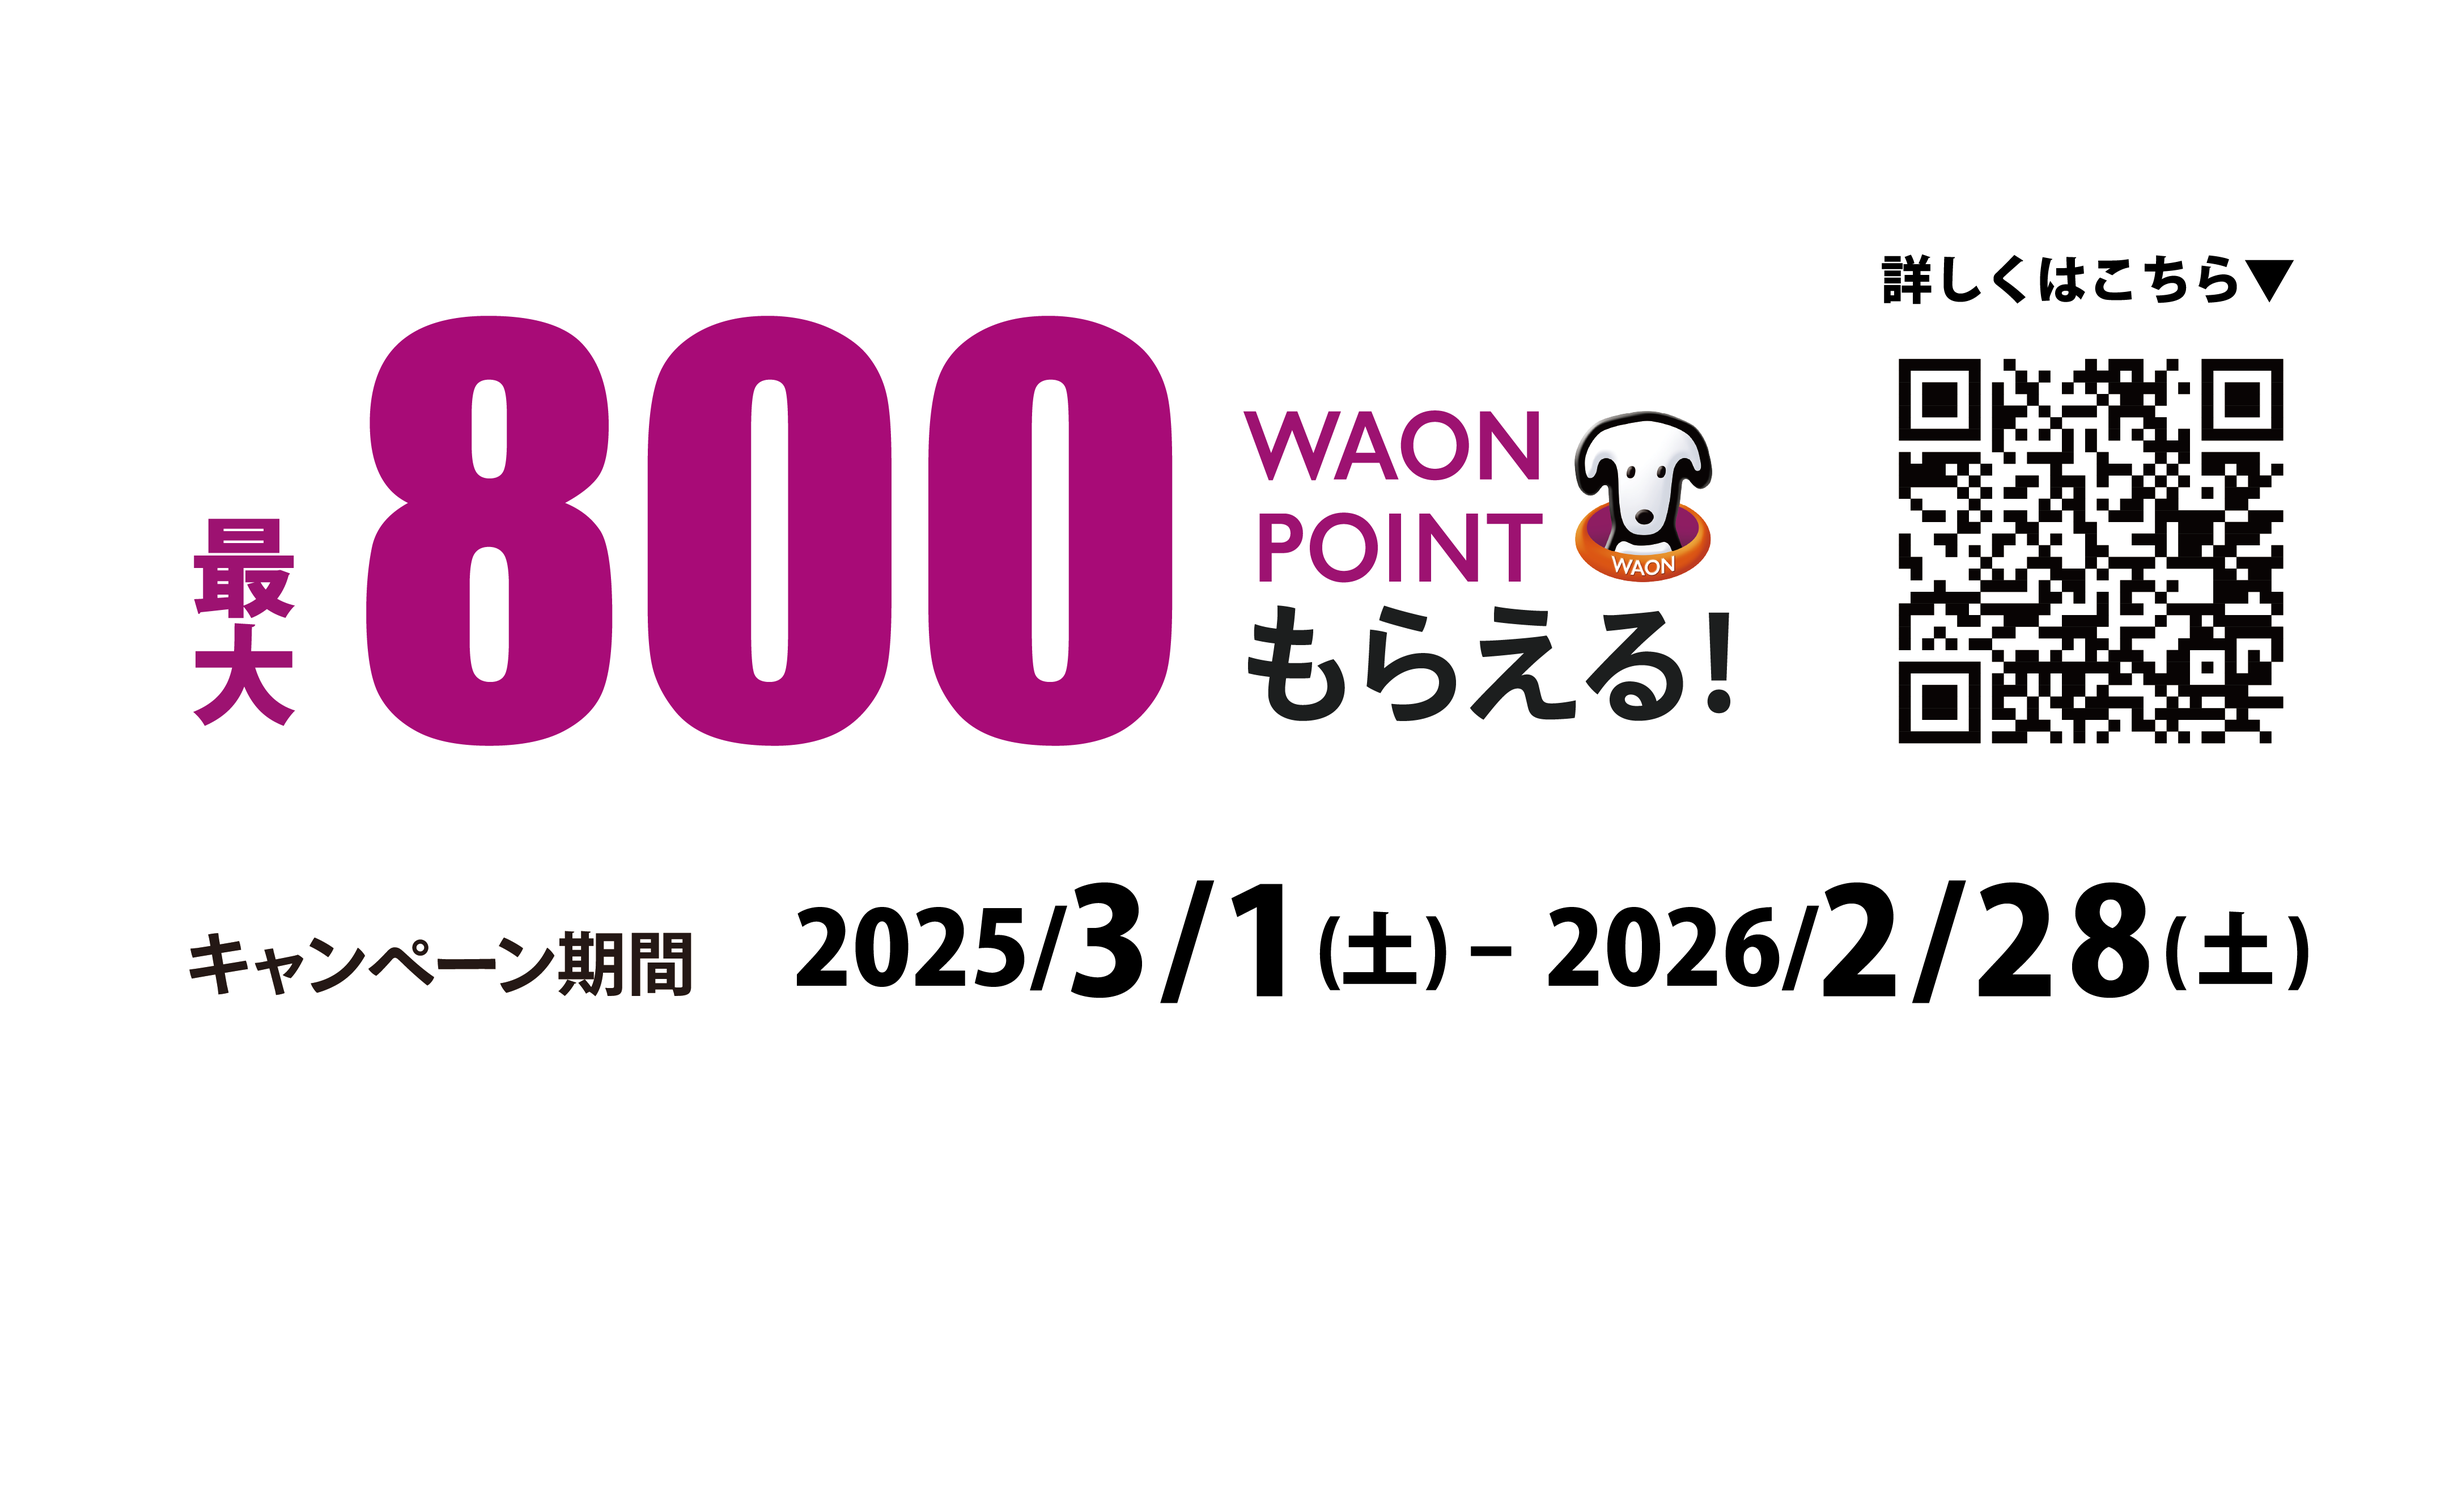
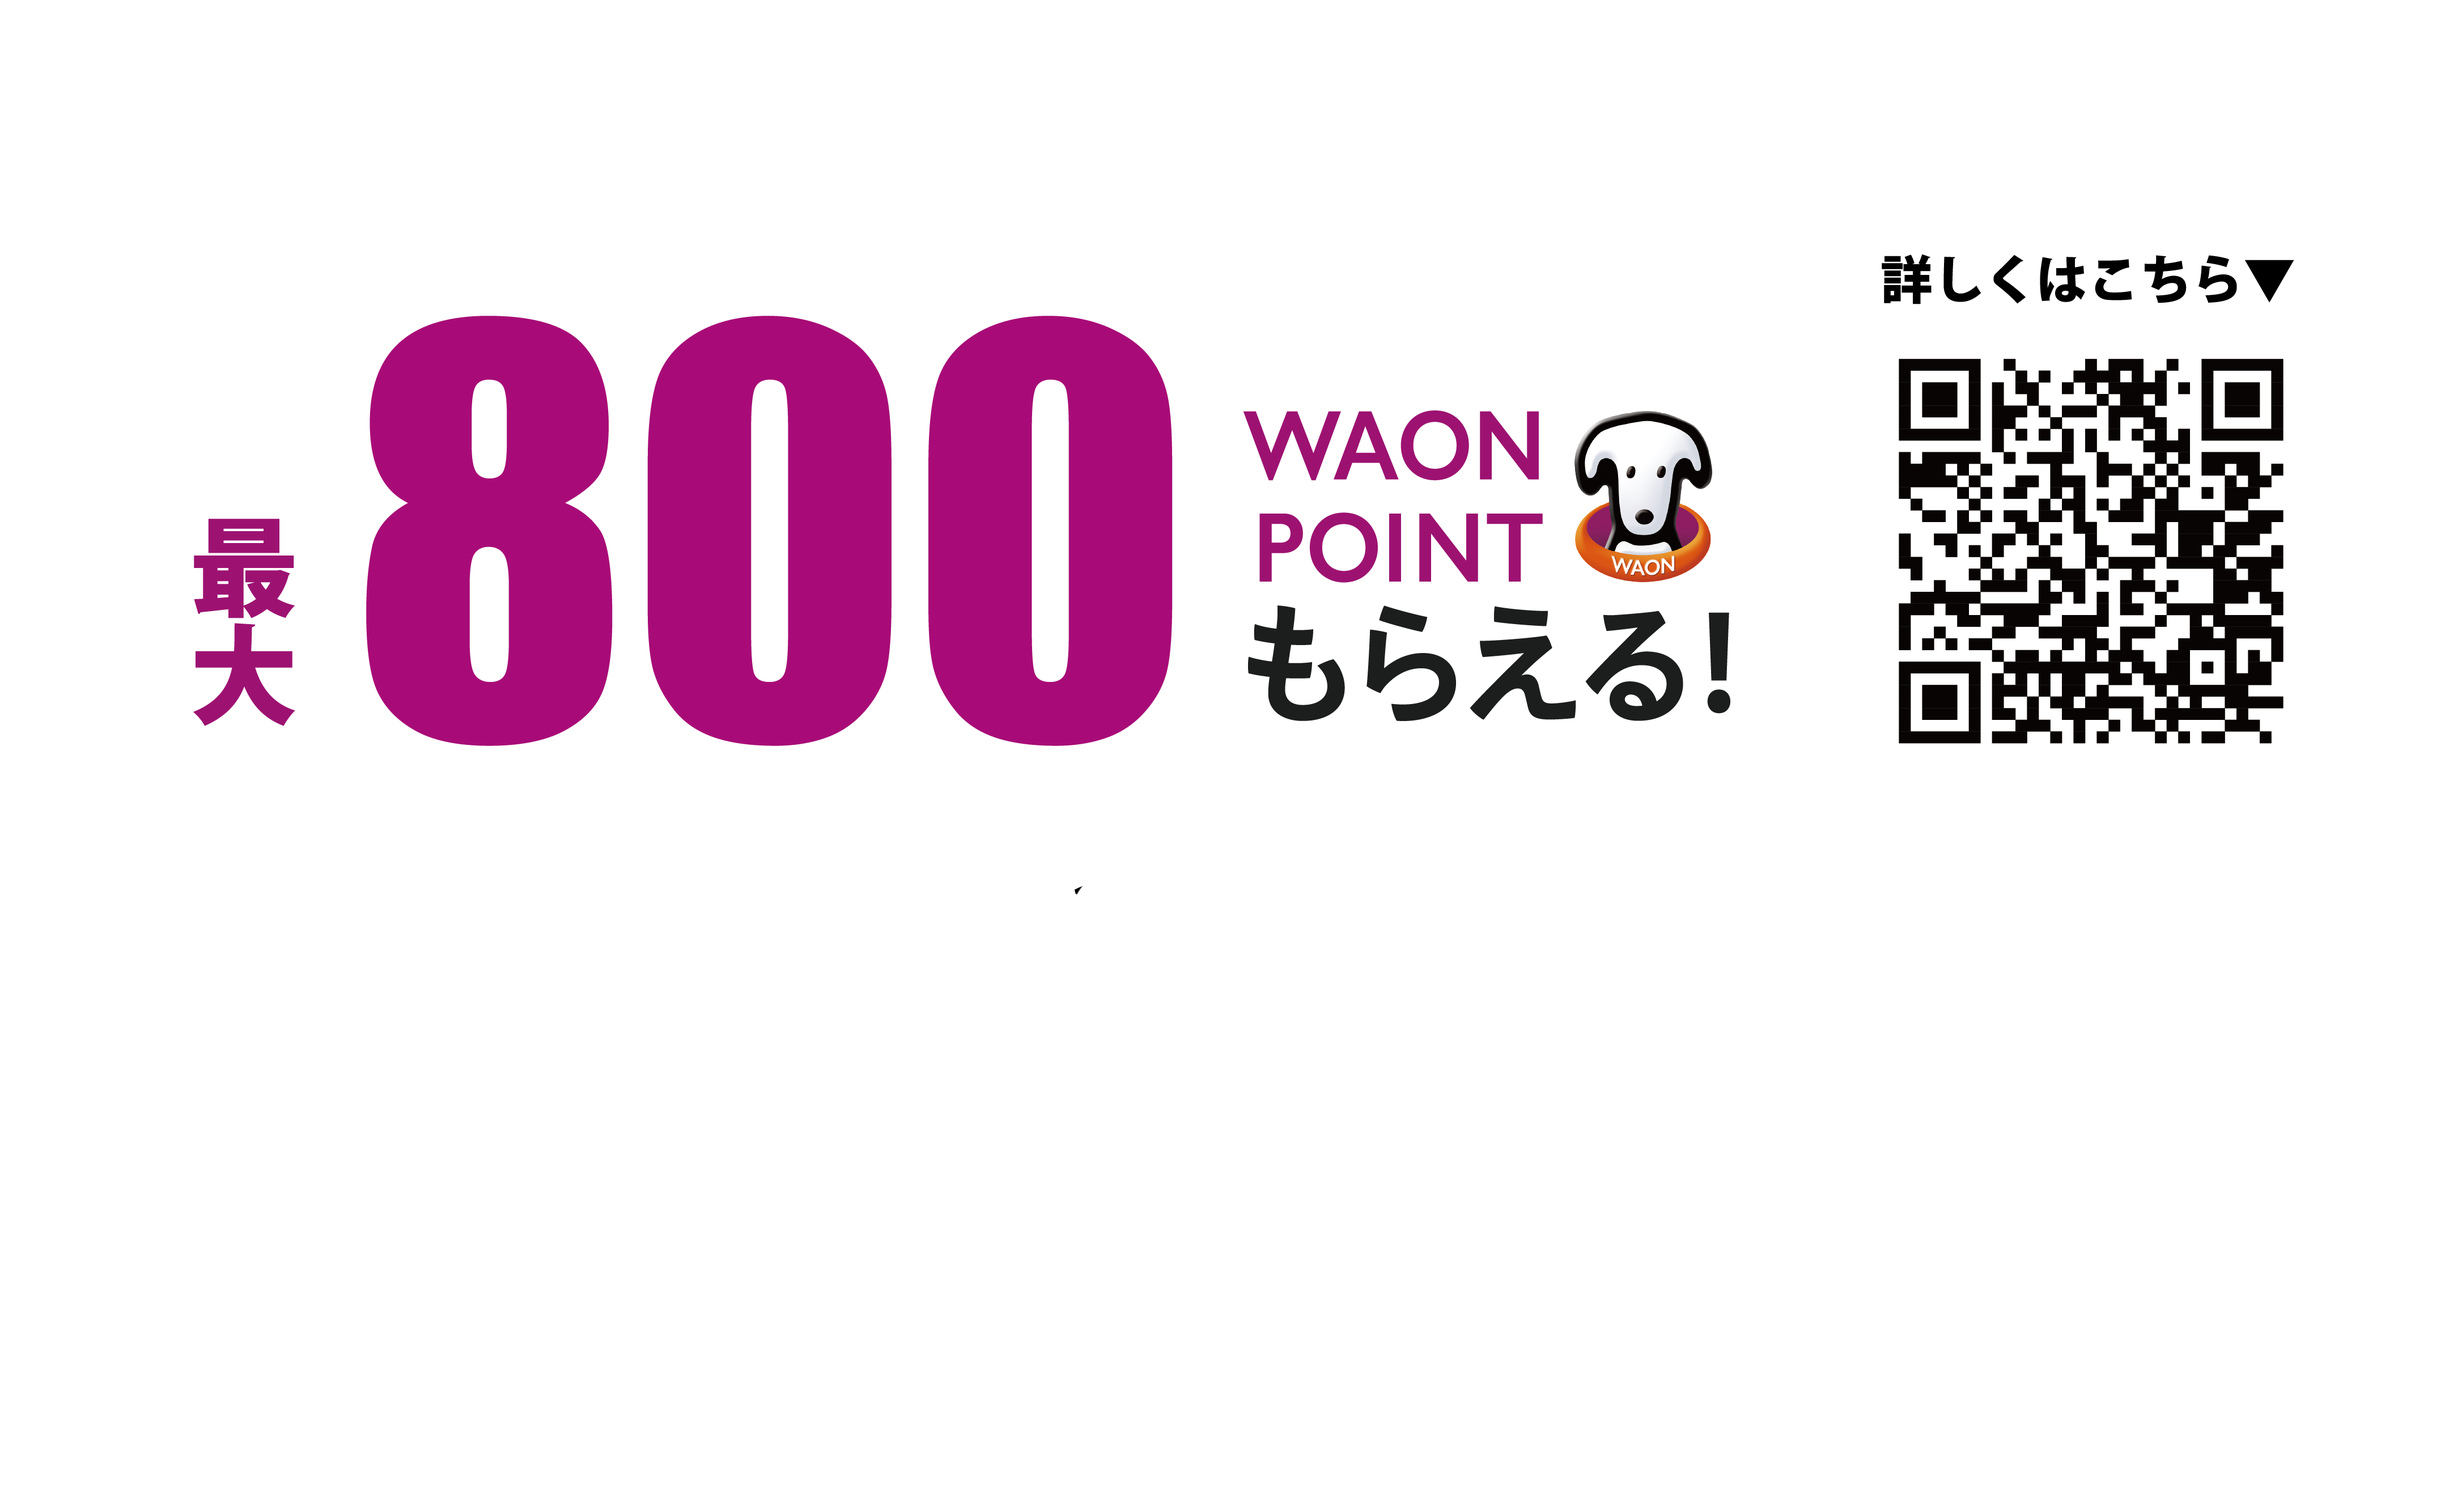
4月リニューアル、お友だち画像修正

Changed region(s): [[0.3124, 0.5935, 0.9685, 0.6872], [0.0625, 0.6248, 0.2812, 0.6872]]

diff --git a/signage_202604renewal.html b/signage_202604renewal.html
@@ -1,0 +1,215 @@
+<!DOCTYPE html>
+<html lang="ja">
+
+<head>
+  <meta charset="UTF-8">
+  <title>AEON SMART TECHNOLOGY</title>
+  <meta name="robots" content="noindex" />
+  <link rel='dns-prefetch' href='//ajax.googleapis.com' />
+  <link rel='dns-prefetch' href='//www.google.com' />
+
+  <!-- Google Tag Manager -->
+  <script>(function (w, d, s, l, i) {
+      w[l] = w[l] || []; w[l].push({
+        'gtm.start':
+          new Date().getTime(), event: 'gtm.js'
+      }); var f = d.getElementsByTagName(s)[0],
+        j = d.createElement(s), dl = l != 'dataLayer' ? '&l=' + l : ''; j.async = true; j.src =
+          'https://www.googletagmanager.com/gtm.js?id=' + i + dl; f.parentNode.insertBefore(j, f);
+    })(window, document, 'script', 'dataLayer', 'GTM-NHT5RG37');</script>
+  <!-- End Google Tag Manager -->
+
+
+
+
+  <script src='https://ajax.googleapis.com/ajax/libs/jquery/3.4.1/jquery.min.js?ver=3.4.1' id='jquery-js'></script>
+
+
+
+
+  <!-- font -->
+  <link rel="preconnect" href="https://fonts.googleapis.com">
+  <link rel="preconnect" href="https://fonts.gstatic.com" crossorigin>
+  <link
+    href="https://fonts.googleapis.com/css2?family=Montserrat:wght@500;600&family=Noto+Sans+JP:wght@300;400;500;600&display=swap"
+    rel="stylesheet">
+  <!-- /font -->
+  <script src="https://ajax.googleapis.com/ajax/libs/jquery/1.12.4/jquery.min.js"></script>
+  <meta http-equiv="X-UA-Compatible" content="IE=edge">
+  <meta name="viewport" content="width=device-width, initial-scale=1, viewport-fit=cover" />
+  <meta name="description" content="＃">
+  <meta property="og:site_name" content="＃" />
+  <meta property="og:type" content="article" />
+  <meta property="og:title" content="＃" />
+  <meta property="og:description" content="＃" />
+  <meta property="og:url" content="＃" />
+  <meta property="og:image" content="＃" />
+
+  <!-- <link rel='stylesheet' href='test/test1.css' type='text/css' media='all' /> --><!--  23/06/19ローカル環境テスト用 -->
+  <link rel='stylesheet' href='css/test2.css' type='text/css' media='all' /><!--  23/07/10ローカル環境テスト用 -->
+  <link rel="stylesheet" type="text/css" href="https://cdnjs.cloudflare.com/ajax/libs/slick-carousel/1.9.0/slick.css">
+  <link rel="stylesheet" type="text/css"
+    href="https://cdnjs.cloudflare.com/ajax/libs/slick-carousel/1.9.0/slick-theme.css">
+  <script type="text/javascript"
+    src="https://cdnjs.cloudflare.com/ajax/libs/slick-carousel/1.9.0/slick.min.js"></script>
+  <!-- 23/07 -->
+  <link rel='stylesheet' href='css/reset2024.css' type='text/css' media='all' /><!--  23/07/10ローカル環境テスト用 -->
+  <link rel='stylesheet' href='css/test2.css' type='text/css' media='all' /><!--  23/07/10ローカル環境テスト用 -->
+  <link href="https://use.fontawesome.com/releases/v6.2.0/css/all.css" rel="stylesheet">
+
+  <script src="https://cdn.jsdelivr.net/npm/vue@2.6.14"></script><!-- Vue -->
+  <!-- <script src="https://unpkg.com/vue@3/dist/vue.global.js"></script> --><!-- Vue -->
+
+  <link rel="stylesheet" href="https://unpkg.com/swiper@7/swiper-bundle.min.css" />
+
+  <script src="https://unpkg.com/swiper@7/swiper-bundle.min.js"></script>
+
+  <!-- <script>
+    document.addEventListener('DOMContentLoaded', function() {
+      var now = new Date();
+      var redirectDate = new Date(2024, 8, 11); // 2024年9月11日（月は0から始まるため、7は8月を表します）
+
+      if (now >= redirectDate) {
+        window.location.href = 'signage03.html';
+      }
+    });
+  </script> -->
+
+</head>
+
+<body id="signage" class="under">
+  <!-- Google Tag Manager (noscript) -->
+  <noscript><iframe src="https://www.googletagmanager.com/ns.html?id=GTM-NHT5RG37" height="0" width="0"
+      style="display:none;visibility:hidden"></iframe></noscript>
+  <!-- End Google Tag Manager (noscript) -->
+
+  <!-- <header>
+    <a href="index.html">
+      <h3 class="icon"><i class="fa-solid fa-caret-left"></i></h3>
+    </a>
+    <h1>How to</h1>
+  </header>
+
+  <div id="header-menu">
+    <ul>
+      <li><a href="map_simple.html"><img src="img/top/btn_MAP.png"></a></li>
+    </ul>
+  </div> -->
+
+
+  <main>
+
+    <!-- サイネージ用画像セクション ============================================================= -->
+    <section>
+
+
+      <div class="video_wrapper">
+
+      <img src="img/info/202604_renewal.jpg" alt="2026年4月リニューアル" id="signageImage"> <!-- 4月15日まで-->
+
+    </div>
+
+    </section>
+
+    <!-- <script>
+      document.addEventListener('DOMContentLoaded', function () {
+        var now = new Date();
+
+        var targetDate2 = new Date(2025, (2 - 1), 10, 12, 0, 0);  // 日本標準時の2025年2月10日12:00 画像切り替わり
+
+        
+        var task2Executed = false; // 画像の書き換え実行のフラグ
+
+        
+        function executeTask2() {
+          var signageImage = document.getElementById("signageImage");
+          signageImage.src = "img/info/20250212_02.png"; // 新しい画像ファイルのパスを指定
+          task2Executed = true; // タスク2が実行されたことを記録
+        }
+
+        function checkTime() {
+          now = new Date();
+
+          console.log("現在の時間 (now): " + now);
+          console.log("イベント開始日時 (targetDate2): " + targetDate2);
+
+          
+
+          if (now >= targetDate2 && !task2Executed) {
+            console.log("指定日2を過ぎているため、画像の書き換えを実行します。");
+            executeTask2();
+          }
+        }
+
+        // 初回チェック
+        checkTime();
+      });
+    </script> -->
+
+    
+    <!-- サイネージ用画像セクション ============================================================= -->
+
+
+    <style>
+     div,
+      img,
+      video {
+        width: 100%;
+        height: auto;
+        max-height: 100%;
+      }
+      section{
+        width: 100%;
+        height: 100vh;
+        display: flex;
+        align-items: center;
+      }
+
+      .video_wrapper {
+        position: relative;
+      }
+      video{
+        margin:  0 auto;
+      }
+    </style>
+  </main>
+
+
+  <!-- <footer>
+    <h2>AEON Smart Technology Co., Ltd.</h2>
+  </footer> -->
+
+
+
+
+
+
+
+  <script src="https://cdnjs.cloudflare.com/ajax/libs/jquery/3.5.1/jquery.min.js"></script>
+
+  <script type="text/javascript" src="https://code.jquery.com/jquery-1.11.0.min.js"></script>
+  <script type="text/javascript"
+    src="https://cdnjs.cloudflare.com/ajax/libs/slick-carousel/1.9.0/slick.min.js"></script>
+  <script src="https://cdnjs.cloudflare.com/ajax/libs/gsap/3.12.2/gsap.min.js"></script>
+  <script src="https://cdnjs.cloudflare.com/ajax/libs/gsap/3.12.2/ScrollTrigger.min.js"></script>
+
+
+  <script type="text/javascript" src="https://www.aeon-st.co.jp/js/libs/signals.js"></script>
+  <script type="text/javascript" src="https://www.aeon-st.co.jp/js/libs/glUtils.js"></script>
+  <script type="text/javascript" src="https://www.aeon-st.co.jp/js/libs/rellax.min.js"></script>
+
+  <!------------------------END/メイン------------------------------------>
+
+
+
+  <script src="https://code.jquery.com/jquery-3.6.0.min.js"></script>
+  <script src="https://cdnjs.cloudflare.com/ajax/libs/gsap/3.11.0/gsap.min.js"></script>
+
+
+
+
+
+  <script src="js/url_seni_movie.js"></script>
+</body>
+
+</html>

diff --git a/js/url_seni_movie.js b/js/url_seni_movie.js
@@ -18,6 +18,8 @@ document.addEventListener("DOMContentLoaded", function () {
 
             "./signage_youtube01.html",
 
+            "./signage_202604renewal.html", // 2026年8月リニューアルまで
+
             "./mvvlogo.html",
 
             "./signage43_fujiya.html", // 2026/4/8まで
